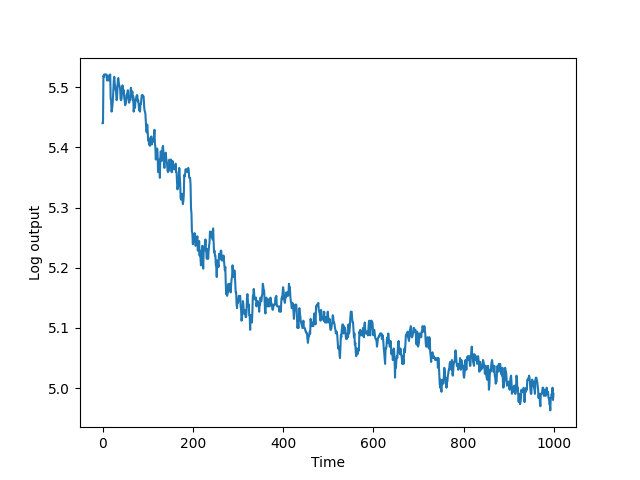
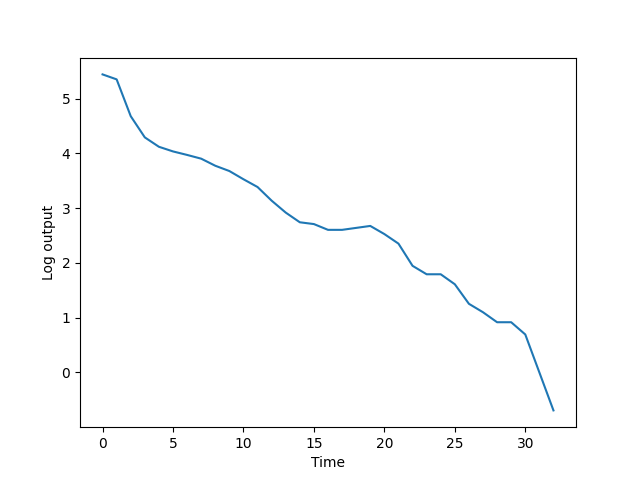
parallising

diff --git a/main.py b/main.py
@@ -16,8 +16,8 @@ import time
 
 # parallel computing
 from joblib import Parallel, delayed
-import multiprocessing
-
+# import multiprocessing
+import multiprocess as mp
 
 # Disable Tensorflow Deprecation Warnings
 #logging.disable(logging.WARNING)
@@ -48,13 +48,13 @@ The plots are saved into plots/toymodel folder.
 """
 
 # instantiate the toymodel class
-toymodel = Toymodel(Time=1000, Ni=100, MC=5,  
+"""toymodel = Toymodel(Time=1000, Ni=100, MC=5,  
                     plots=True, filters=False)
 
 # simulate the toy model and create the plots 
 # toy_simulations = toymodel.simulation(gamma=2, pbar=0.01, delta=0.05, rbar=0.075) 
 parameter = np.array([2, 0.01, 0.05, 0.075])
-toy_simulations = toymodel.simulation(parameter) 
+toy_simulations = toymodel.simulation(parameter)""" 
 
 #################################################################################################
 # Simulating the BAM model(s) by Delli Gatti (2011)
@@ -132,12 +132,12 @@ Idee: extra class mit function für MC plots,
 """
 Generate MC simluations of the model, ech with length T, for each parameter combination.
 
-1)
+A)
 First the estimation method is tested by using pseudo-empirical data with a-priori specified parameter values.
 The first mc simulation with the parameter configuration from above is used as the 'observed' dataset. 
 """
 # number of MC simulations per parameter combination
-MC = 2
+MC = 10
 
 # pseudo empirical data
 BAM_simulations = np.transpose(np.load("data/simulations/BAM_10MC.npy")) # load pesudo random data
@@ -151,7 +151,7 @@ BAM_model = BAM_mc(T=1000, MC = MC, Nh=500, Nf=100, Nb=10,
 # with one column for each free parameter and the first (second) row being the lower (upper) bound respectively
 bounds_BAM = np.transpose(np.array([ [0.07,0.13], [0.07,0.13], [0.07,0.13], [0.02,0.08] ]))
 
-# initialize the sampling methods 
+# initialize the estimation methods
 BAM_posterior = sample_posterior(model = BAM_model, bounds = bounds_BAM, data_obs=BAM_obs, filters=False)
 
 """
@@ -159,14 +159,50 @@ BAM_posterior = sample_posterior(model = BAM_model, bounds = bounds_BAM, data_ob
 """
 
 # number of parameter combinations
-grid_size = 5
+grid_size = 500
 
 start_time = time.time()
 
-
-args = BAM_posterior.simulation_block(grid_size, path = 'data/simulations/BAM_simulations/latin_hypercube')
+np.random.seed(123)
+theta = BAM_posterior.simulation_block(grid_size, path = 'data/simulations/BAM_simulations/latin_hypercube')
+path = 'data/simulations/BAM_simulations/latin_hypercube'
+#args = BAM_posterior.simulation_block(grid_size, path = 'data/simulations/BAM_simulations/latin_hypercube')
 
 # Use a plain grid to compute MC simulations of length T for each parameter combination, on parallel
+
+# parallize the grid search: using joblib
+def grid_search_parallel(theta, model, path, i):
+
+    # current parameter combination
+    # theta_current = theta[i,:]
+    
+    # simulate the model each time with a new parameter combination from the grid
+    simulations = model.simulation(theta[i,:])
+    
+    # current path to save the simulation to
+    # current_path = path + '_' + str(i)
+    
+    # save simulated data 
+    np.save(path + '_' + str(i), simulations)
+    
+    # plot the first mc simulation
+    plt.clf()
+    plt.plot(np.log(simulations[:,0]))
+    plt.xlabel("Time")
+    plt.ylabel("Log output")
+    plt.savefig( path + '_' + str(i) + ".png")
+
+    return
+
+"""def grid_search_parallel(grid_size, theta, model, path, i):
+    current_path = path + '_' + str(i)
+    return np.save(current_path, model.simulation(theta[i]))"""
+
+Parallel(n_jobs=10, verbose=50)(
+        delayed(grid_search_parallel)
+        (theta, BAM_model, path, i) for i in range(grid_size)
+        )
+
 """def grid_simulations_parallel(args):
             
     # current parameter combination
@@ -189,17 +225,22 @@ args = BAM_posterior.simulation_block(grid_size, path = 'data/simulations/BAM_si
 # num_cores = (multiprocessing.cpu_count()) - 4 
 num_cores = 4 
 
-pool = multiprocessing.Pool(processes=num_cores)
+if __name__ == '__main__':
+    with mp.Pool(4) as pool:
+        print(pool.map(grid_simulations_parallel, args))"""
+
+"""pool = mp.Pool(processes=num_cores)
 pool.map_async(grid_simulations_parallel, args)
 pool.close()"""
 
 print("")
 print("--- %s minutes ---" % ((time.time() - start_time)/60))
 # without parallising: 2MC=5 minutes * 5thetas = 25 minutes
-# parallel with 4 cores: 2MC=5 minutes * 5thetas = 25 /4 = 7 minutes
+# parallel with 4 cores, without plots: 2MC=5 minutes * 5thetas = 25 /4 = 7 minutes (5.571771335601807)
+# parallel with 4 cores, with plots: (5.985158399740855)
 
 print("blub")
-
+# np.load(path + '_' + '3.npy')
 
 """
 2) Estimation block: compute the likelihood and the marginal posterior probability (of each parameter)?? (combination) of the abm model by delli gatti.
@@ -222,7 +263,7 @@ print("blub")
 
 
 """
-2) Estimating the BAM model using real data on US GDP ??, using the same artificial data generated above. 
+B) Estimating the BAM model using real data on US GDP ??, using the same artificial data generated above. 
 """
 
 
@@ -247,7 +288,7 @@ The first mc simulation with the parameter configuration from above is used as t
 """
 
 # pseudo empirical data
-toy_data_obs = toy_simulations[:,0] 
+"""toy_data_obs = toy_simulations[:,0] 
 
 # create new instance of the toy model with 100 MC replications 
 toymodel_est = Toymodel(Time=1500, Ni=100, MC=100, 
@@ -263,7 +304,7 @@ toy_posterior = sample_posterior(model = toymodel_est, bounds = bounds_toy_para,
 # Use the plain grid search to compute the posterior estimates of each free parameter
 # the likelihood approximation method used inside the sampling method is set inside the sampling class
 toy_posterior.grid_search(grid_size = 3000, path = 'data/simulations/toymodel_simulations/latin_hypercube')
-print("blub")
+print("blub")"""
 
 # Gatti 2020
 # 5000 combinations

diff --git a/sampling.py b/sampling.py
@@ -55,10 +55,9 @@ class sample_posterior:
         u_bounds = list(self.bounds[1,:])
 
         # create latin hypercube sampler
-        latin_sampler = qmc.LatinHypercube(d=number_para)
+        latin_sampler = qmc.LatinHypercube(d=number_para, seed=123)
 
         # sample theta values between 0 and 1 and scale to the given bounds (ranges)
-        np.random.seed(123)
         theta = latin_sampler.random(n=grid_size)
 
         # scale parameters to the given bounds
@@ -118,12 +117,12 @@ class sample_posterior:
 
 
         # parallize the grid search: muliprocessing librarys
-        args = []
+        """args = []
         for i in range(grid_size):
             # args.append([theta[i,:], path + '_' + str(i)])
-            args.append({'theta': theta[i,:], 'path': path + '_' + str(i)})
+            args.append({'theta': theta[i,:], 'path': path + '_' + str(i)})"""
         
-        return args
+        return theta
 
 
 
